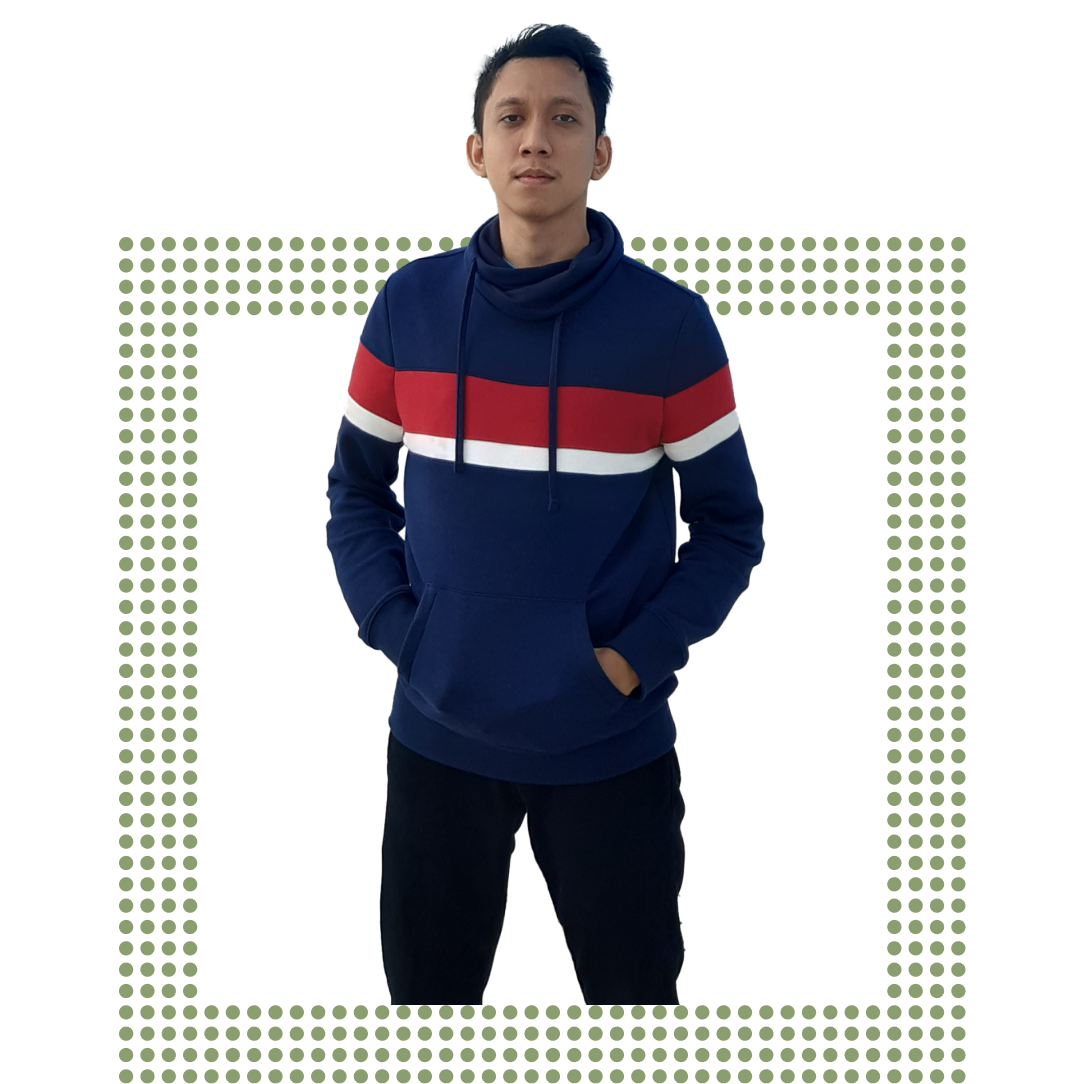
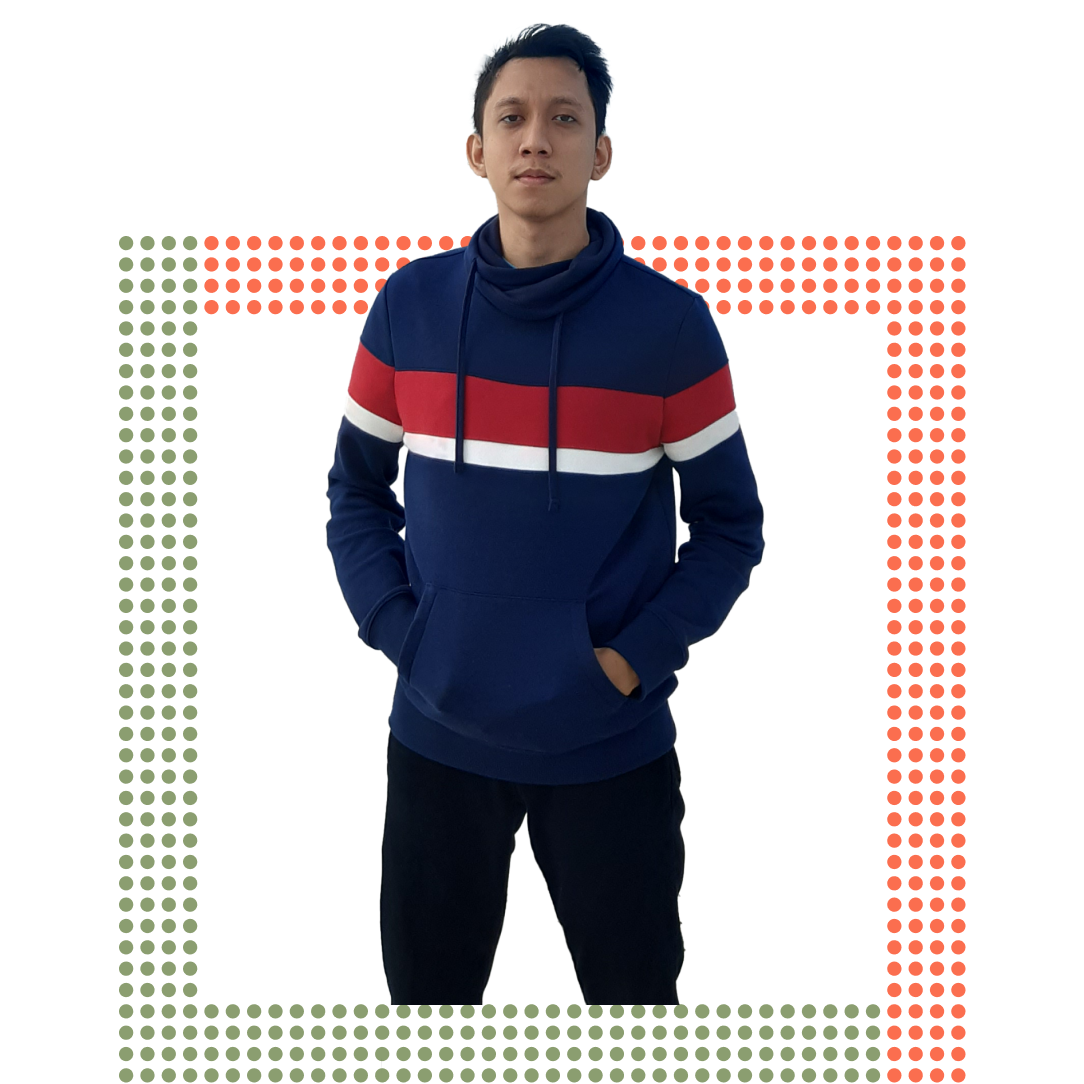
some edit
edit project detail, about, and button style

Changed region(s): [[0.1218, 0.2131, 0.9133, 1.0]]

diff --git a/src/components/Experience.js b/src/components/Experience.js
@@ -2,7 +2,7 @@ import React from "react";
 import { useScroll, motion } from "framer-motion";
 import LiIcon from "./LiIcon";
 
-const Details = ({ position, company, companyLink, time, address, work }) => {
+const Details = ({ position, company, companyLink, time, work }) => {
     const ref = React.useRef(null);
   return (
     <li
@@ -27,7 +27,7 @@ const Details = ({ position, company, companyLink, time, address, work }) => {
           </a>
         </h3>
         <p className="capitalize font-medium text-dark/75 dark:text-light/75 my-2 xs:text-sm">
-          {time} | {address}
+          {time}
         </p>
         <p className="font-medium w-full md:text-sm">{work}</p>
       </motion.div>
@@ -53,52 +53,18 @@ const Experience = () => {
         />
         <ul className="w-full flex flex-col items-start justify-between ml-4 xs:ml-2">
           <Details
-            position="Software Engineer"
-            companyLink="https://google.com"
-            company="Google"
-            time="2022-Present"
-            address="Mountain View, CA"
-            work="Worked on a team responsible for developing new features for Google's search engine, including improving the accuracy and relevance of search results and developing new tools for data analysis and visualization."
+            position="Chemistry Tutor"
+            companyLink="https://www.quipper.com/id/"
+            company="Quipper"
+            time="Feb 2019 - Jun 2023"
+            work="I supported students by assisting with assignments, explaining complex problem-solving methods, and ensuring prompt responses to their needs. I guided them through challenges, simplified concepts, and tailored my approach for individual learning, fostering an interactive environment. My focus on effective communication and adaptability enhanced understanding of complex subjects."
           />
           <Details
-            position="Software Engineer"
-            company="Google"
-            companyLink="https://google.com"
-            time="2022-Present"
-            address="Mountain View, CA"
-            work="Worked on a team responsible for developing new features for Google's search engine, including improving the accuracy and relevance of search results and developing new tools for data analysis and visualization."
-          />
-          <Details
-            position="Software Engineer"
-            company="Google"
-            companyLink="https://google.com"
-            time="2022-Present"
-            address="Mountain View, CA"
-            work="Worked on a team responsible for developing new features for Google's search engine, including improving the accuracy and relevance of search results and developing new tools for data analysis and visualization."
-          />
-          <Details
-            position="Software Engineer"
-            company="Google"
-            companyLink="https://google.com"
-            time="2022-Present"
-            address="Mountain View, CA"
-            work="Worked on a team responsible for developing new features for Google's search engine, including improving the accuracy and relevance of search results and developing new tools for data analysis and visualization."
-          />
-          <Details
-            position="Software Engineer"
-            company="Google"
-            companyLink="https://google.com"
-            time="2022-Present"
-            address="Mountain View, CA"
-            work="Worked on a team responsible for developing new features for Google's search engine, including improving the accuracy and relevance of search results and developing new tools for data analysis and visualization."
-          />
-          <Details
-            position="Software Engineer"
-            company="Google"
-            companyLink="https://google.com"
-            time="2022-Present"
-            address="Mountain View, CA"
-            work="Worked on a team responsible for developing new features for Google's search engine, including improving the accuracy and relevance of search results and developing new tools for data analysis and visualization."
+            position="Tutor Test Center"
+            companyLink="https://pahamify.com/"
+            company="Pahamify"
+            time="Feb 2021 - May 2021"
+            work="I focused in producing detailed problem-solving videos, delved into complex problem concepts, meticulously planned and delivered clear explanations. Collaborated closely with the Quality Control team, ensuring the videos met stringent content standards, resulting in high-quality educational materials tailored to our audience's needs."
           />
         </ul>
       </div>

diff --git a/src/pages/projects.js b/src/pages/projects.js
@@ -9,6 +9,7 @@ import { motion } from "framer-motion";
 import grocereasy from "../../public/images/projects/grocereasy.png";
 import metis from "../../public/images/projects/metis.png";
 import bloggingapi from "../../public/images/projects/blogging_api.png";
+import chronos from "../../public/images/projects/chronos.png";
 import TransitionEffect from "@/components/TransitionEffect";
 
 const FramerImage = motion(Image);
@@ -32,7 +33,7 @@ const FeaturedProject = ({ title, type, summary, img, link, github }) => {
         />
       </Link>
       <div className="w-1/2 lg:w-full flex flex-col items-start justify-between pl-6 lg:pl-0 lg:pt-6">
-        <span className="text-primary dark:text-primaryDark font-medium text-xl xs:text-base">
+        <span className="text-primary dark:text-primaryDark font-bold text-xl xs:text-base">
           {type}
         </span>
         <Link
@@ -54,7 +55,7 @@ const FeaturedProject = ({ title, type, summary, img, link, github }) => {
           <Link
             href={link}
             target="_blank"
-            className="ml-4 rounded-lg bg-dark text-light dark:bg-light dark:text-dark p-2 px-6 text-lg font-semibold sm:px-4 sm:text-base"
+            className="ml-4 transition duration-300 rounded-lg bg-dark text-light border-2 border-solid border-transparent dark:bg-light dark:text-dark hover:bg-light hover:text-dark hover:border-dark dark:hover:bg-dark dark:hover:text-light dark:hover:border-light p-2 px-6 text-lg font-semibold sm:px-4 sm:text-base"
           >
             Visit Projects
           </Link>
@@ -83,7 +84,7 @@ const Project = ({ title, type, img, link, github }) => {
         />
       </Link>
       <div className="w-full flex flex-col items-start justify-between mt-4">
-        <span className="text-primary dark:text-primaryDark font-medium text-xl lg:text-lg md:text-base">
+        <span className="text-primary dark:text-primaryDark font-bold text-xl lg:text-lg md:text-base">
           {type}
         </span>
         <Link
@@ -137,8 +138,17 @@ const projects = () => {
             </div>
             <div className="col-span-6 sm:col-span-12">
               <Project
+                title="Chronos"
+                type="Project"
+                img={chronos}
+                link="https://github.com/gifariarsal/chronos_client"
+                github="https://github.com/gifariarsal/chronos_client"
+              />
+            </div>
+            <div className="col-span-6 sm:col-span-12">
+              <Project
                 title="Metis"
-                type="Front-End Project"
+                type="Project"
                 img={metis}
                 link="https://metisblog.netlify.app/"
                 github="https://github.com/gifariarsal/metis"
@@ -147,7 +157,7 @@ const projects = () => {
             <div className="col-span-6 sm:col-span-12">
               <Project
                 title="Blogging API"
-                type="Back-End Project"
+                type="Project"
                 img={bloggingapi}
                 link="https://documenter.getpostman.com/view/27216835/2s946pYUD5"
                 github="https://github.com/gifariarsal/blogging_backend"

diff --git a/src/pages/index.js b/src/pages/index.js
@@ -45,7 +45,7 @@ export default function Home() {
                 <Link
                   href="https://docs.google.com/document/d/1HJrWlBKKlRsnMUkRUQ7mlNnbITG7y182d7ru_5a8O-s/edit?usp=sharing"
                   target="_blank"
-                  className="flex items-center text-lg bg-primary text-light p-2 px-6 rounded-lg hover:bg-light hover:text-primary font-semibold border-2 border-solid border-transparent hover:border-primary dark:bg-primaryDark dark:text-dark hover:dark:bg-dark hover:dark:text-primaryDark hover:dark:border-primaryDark md:p-2 md:px-4 md:text-base"
+                  className="flex items-center text-lg bg-primary text-light p-2 px-6 rounded-lg transition duration-300 hover:bg-light hover:text-primary font-semibold border-1 border-solid border-transparent hover:border-primary dark:bg-primaryDark dark:text-dark hover:dark:bg-dark hover:dark:text-primaryDark hover:dark:border-primaryDark md:p-2 md:px-4 md:text-base"
                 >
                   Resume <LinkArrow className="w-6 ml-1" />
                 </Link>

diff --git a/src/components/Certificate.js b/src/components/Certificate.js
@@ -16,11 +16,13 @@ const Details = ({ type, time, place, info }) => {
         transition={{ duration: 0.5, type: "spring" }}
         viewport={{ once: true }}
       >
-        <h3 className="font-bold text-2xl capitalize sm:text-xl xs:text-lg">{type}</h3>
+        <h3 className="font-bold text-2xl capitalize sm:text-xl xs:text-lg">
+          {type}
+        </h3>
         <p className="capitalize font-medium text-dark/75 dark:text-light/75 my-2 xs:text-sm">
           {time} | {place}
         </p>
-        <p className="font-medium w-full">{info}</p>
+        <p className="font-medium w-full md:text-sm">{info}</p>
       </motion.div>
     </li>
   );

diff --git a/tailwind.config.js b/tailwind.config.js
@@ -12,8 +12,8 @@ module.exports = {
       colors: {
         dark: "#1b1b1b",
         light: "#f5f5f5",
-        primary: "#758963",
-        primaryDark: "#758963",
+        primary: "#43582A",
+        primaryDark: "#FB6E4F",
       },
       backgroundImage: {
         circularLight:

diff --git a/src/pages/about.js b/src/pages/about.js
@@ -60,7 +60,7 @@ const about = () => {
               />
             </div>
           </div>
-          {/* <Experience /> */}
+          <Experience />
           <Education />
           <Certificate />
           <Skills />
